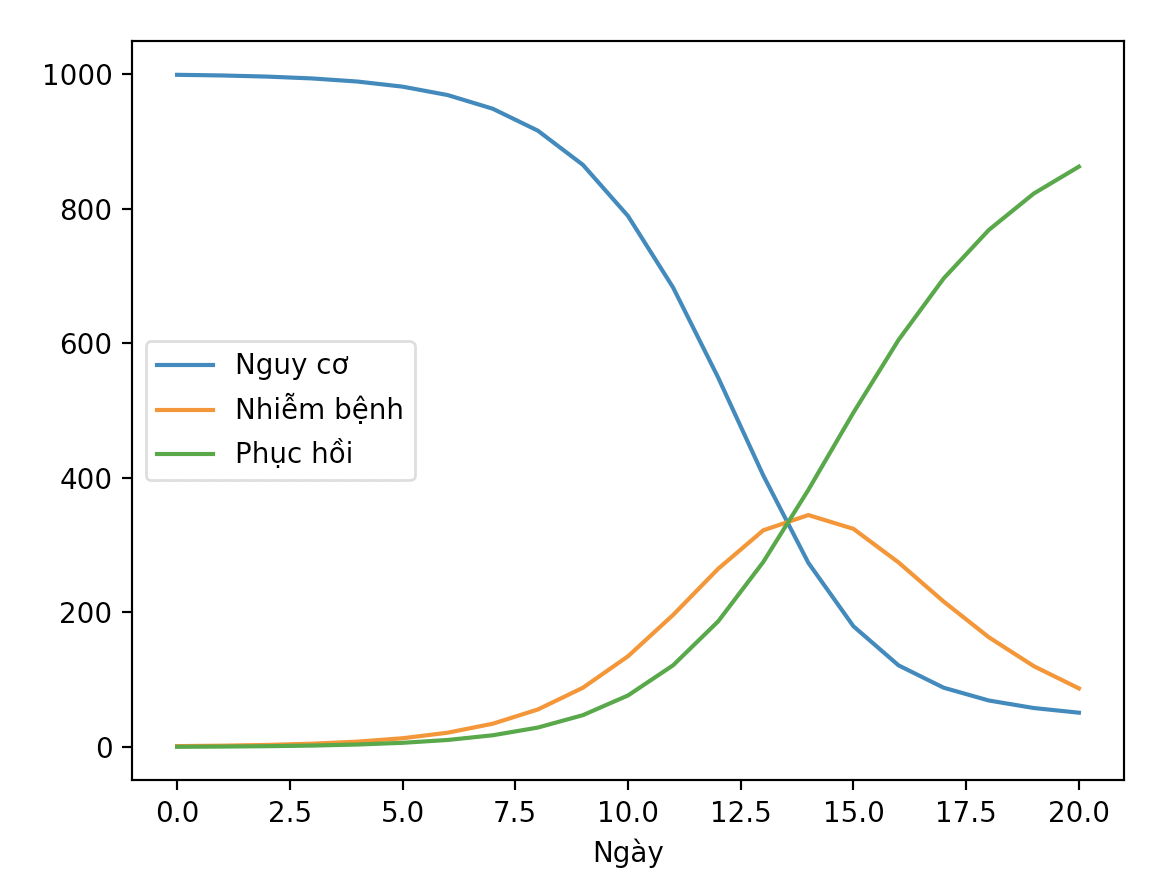
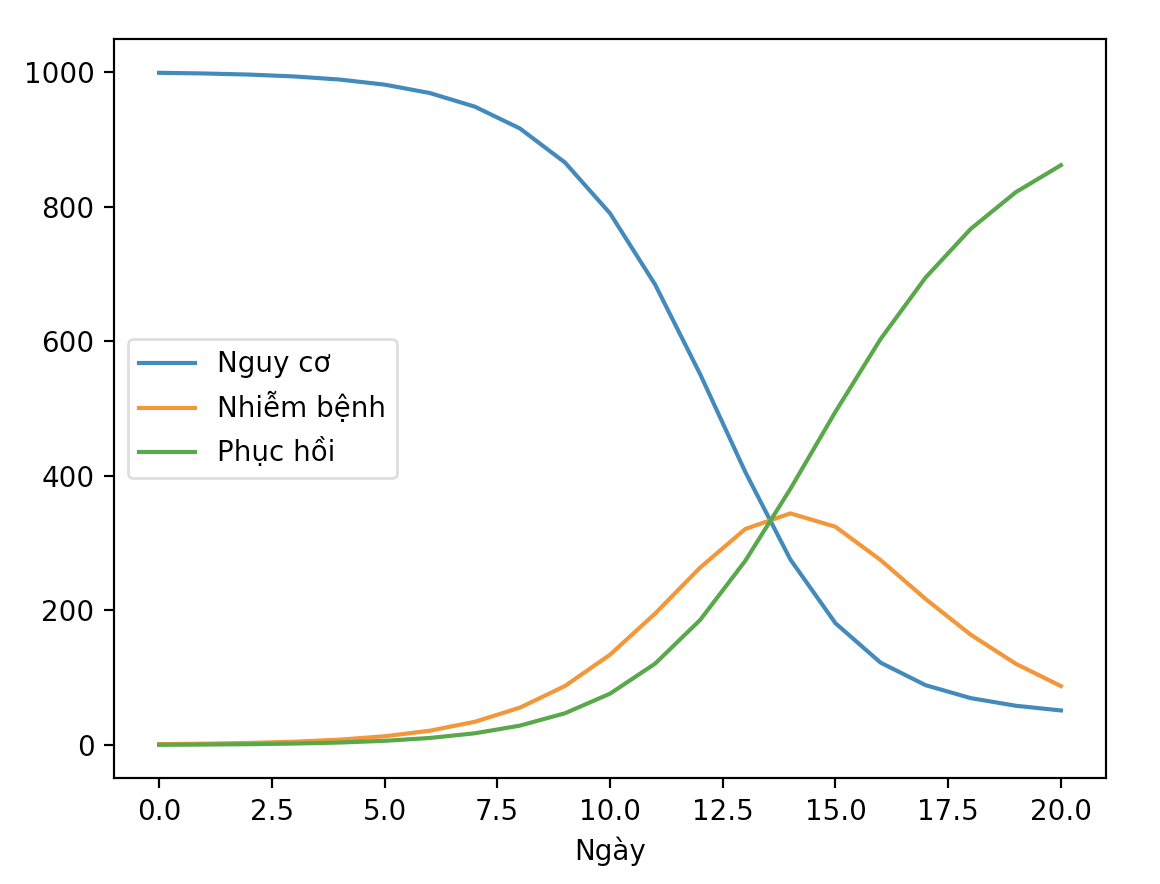
Edit euler plot

diff --git a/src/euler.py b/src/euler.py
@@ -3,7 +3,7 @@ from scipy.integrate import odeint
 import matplotlib.pyplot as plt
 import pandas as pd
 
-N = 999
+N = 1000
 beta = 1.0
 D = 3.0
 gamma = 1.0 / D
@@ -44,12 +44,10 @@ def euler_cal(y0, N, beta, gamma, days):
 
 def main():
     res = euler_cal(y0, N, beta, gamma, days)
-    print(len(res))
-    print(len(res[0]))
     df = pd.DataFrame(res, columns=['Nguy cơ', 'Nhiễm bệnh', 'Phục hồi'])
     df.index.names =['Ngày']
     df.plot()
-    # plt.show()
+    plt.show()
     df.to_csv("euler.csv")
 
 if __name__ == "__main__":
